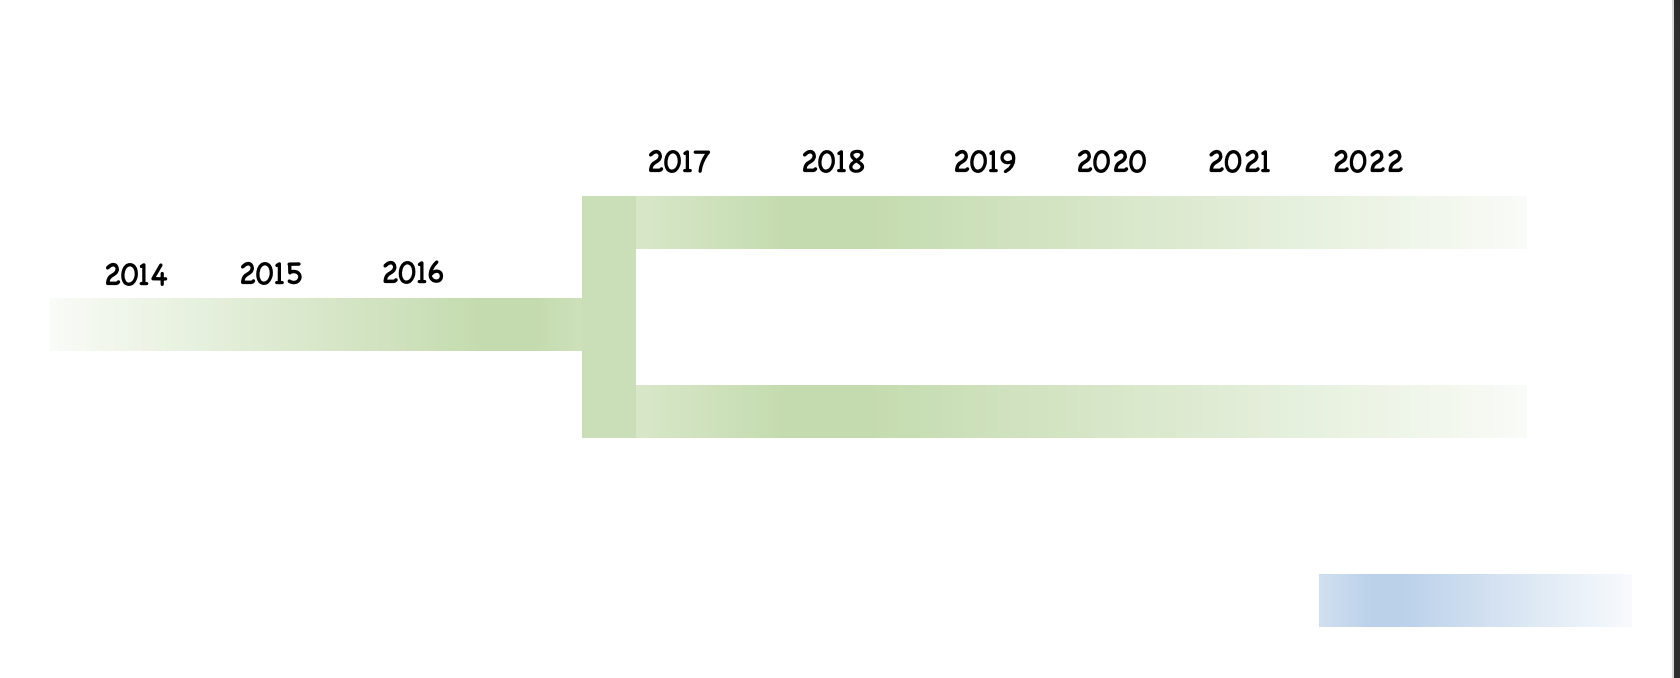
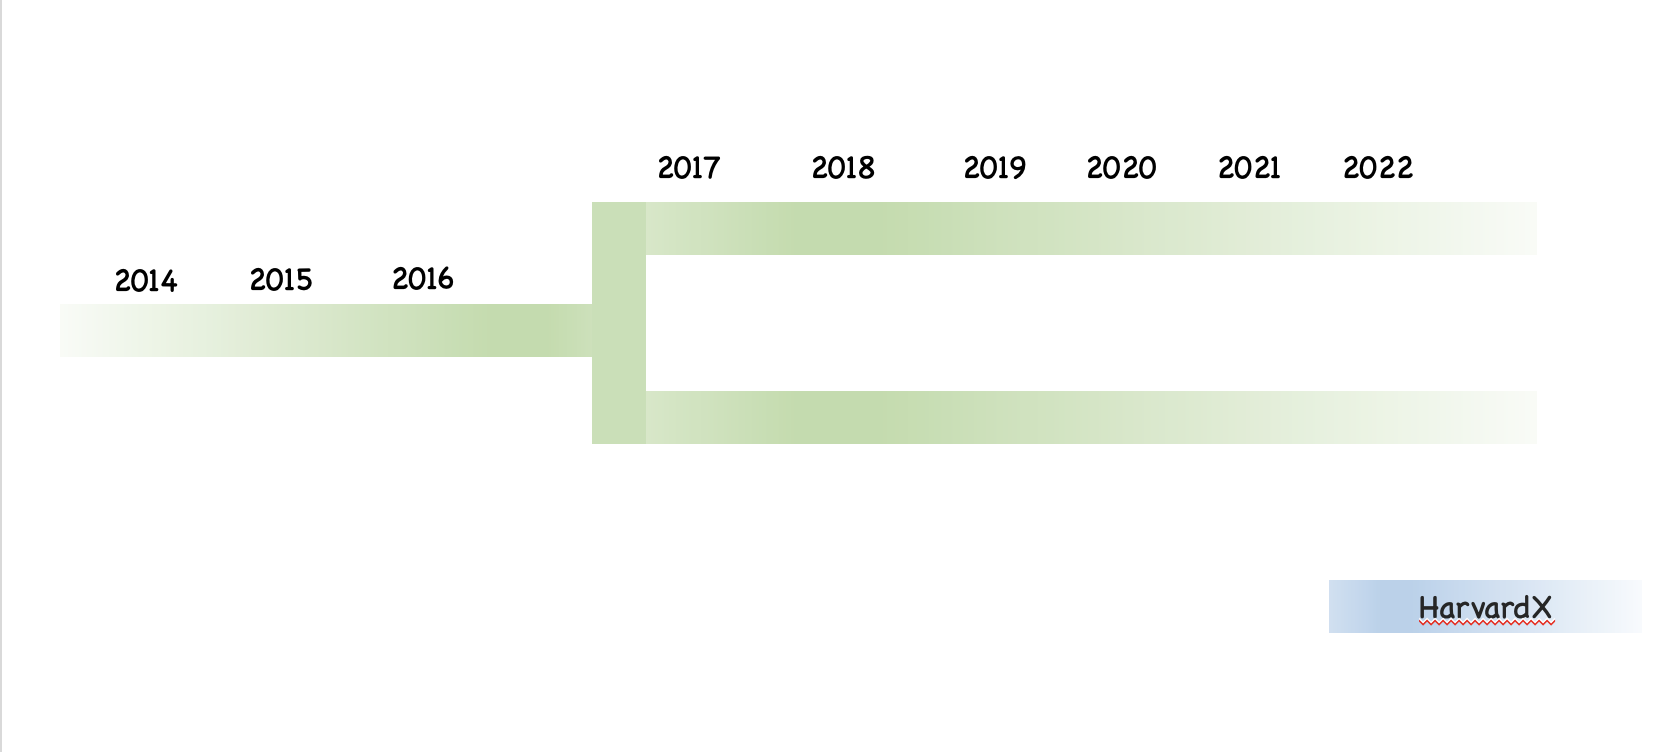
add a diagram

Changed region(s): [[0.062, 0.1858, 0.8367, 0.6504], [0.9917, 0.0, 1.0, 1.0], [0.7747, 0.7743, 0.9607, 0.9292]]

diff --git a/index.md b/index.md
@@ -9,7 +9,6 @@ title: CS109 Data Science blah
 <br/><br/>
 CS109 course at Harvard was originally taught as a one-semester course by Hanspeter Pfister and Joe Blister. The course has since expanded to two semesters, CS109A and CS109B, and has been taught by Pavlos Protopapas from SEAS and Natesh Pillai, Kevin Rader and Mark Glickman.  
 </div>
-
 <br/><br/>
 
 
@@ -19,7 +18,8 @@ CS109 course at Harvard was originally taught as a one-semester course by Hanspe
 <map name="workmap">
   <area shape="rect" coords="50,200,190,330" alt="2014" href="pages/2014">
   <area shape="rect" coords="190,300, 333,330" alt="2015" href="pages/2015">
-  <area shape="rect" coords="333,300,450, 330" alt="2016" href="pages/2016">
+  <area shape="rect" coords="333,300,450,330" alt="2016" href="pages/2016">
+  <area shape="rect" coords="1300,500,1450,700" alt="HarvardX" href="pages/HarvardX">
 </map>
 
 
